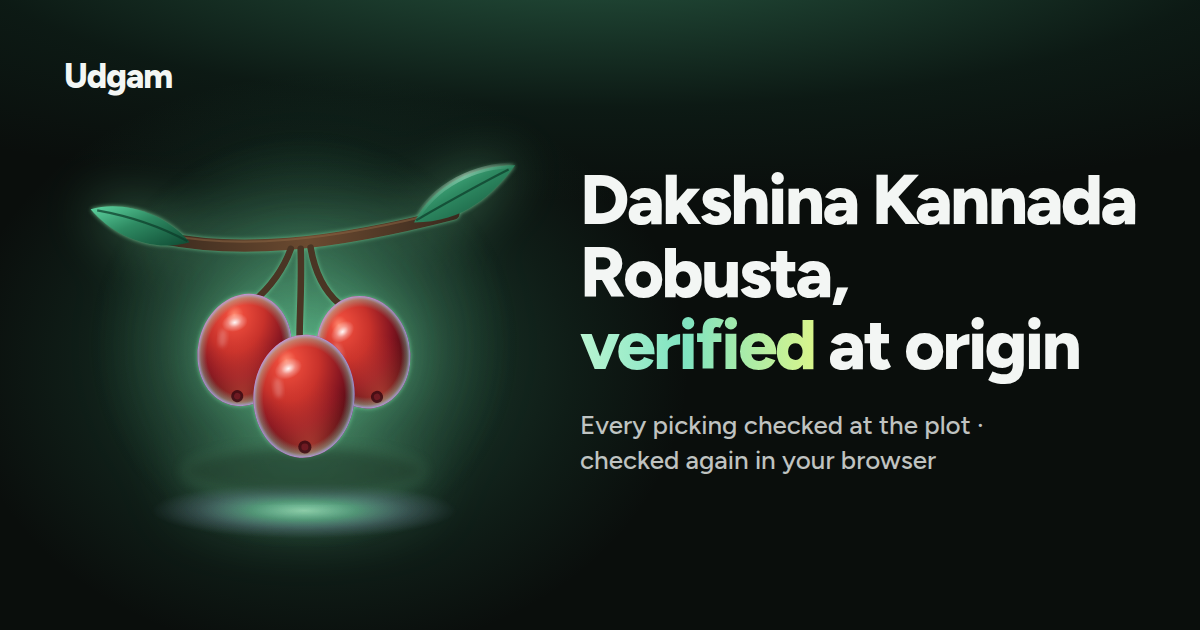
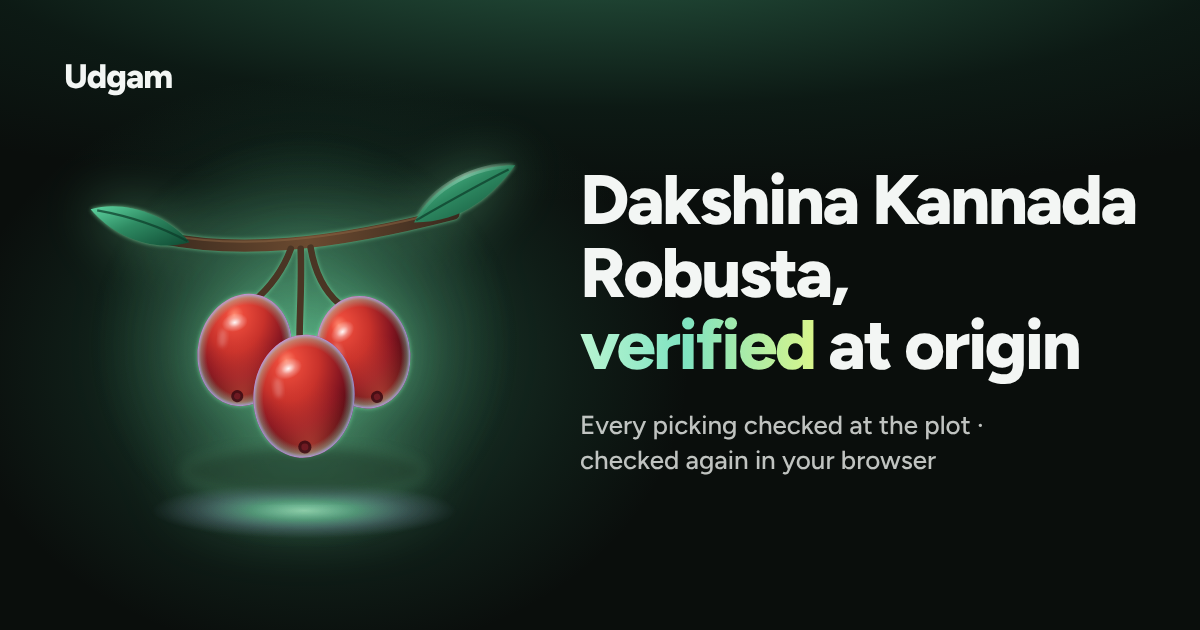
Pin the link-preview glyph rasteriser so every host renders the same OG image (TASK-18)
CI's e2e job failed og-image.spec.ts: verify-kodagu-arabica.png differed from
its re-render by a mean of 2.9007/255. The committed PNGs came from the VM's
full Chrome binary, which takes hinting and subpixel order from the host's
fontconfig (this VM: hintslight + RGB). CI renders with the headless shell,
which uses full hinting. Locally the 1194 headless shell gives exactly
2.9007 against the old PNGs, the same figure CI reported with Chromium 153.

launchOgBrowser now points FONTCONFIG_FILE at scripts/og/fonts.conf
(grayscale antialiasing, no hinting, no LCD order, host files unread) and
passes --font-render-hinting=none, --disable-font-subpixel-positioning and
--disable-lcd-text. The spec renders with that browser instead of the
project fixture. Across both binaries, under the VM's fontconfig, four
scratch system configs and a user ~/.config file, renders are now
byte-identical; before, they were 0.44 to 3.32 apart.

The PNGs are regenerated with pnpm og:render: same layouts, 337-353 KB,
byte-identical on a second run, and closer to the approved verify.png
(mean 0.99, was 1.37). The comparison limits are unchanged.

Claude-Session: https://claude.ai/code/session_01HGo9cNkjpsmZsaQ31tkm9J

diff --git a/e2e/og-image.spec.ts b/e2e/og-image.spec.ts
@@ -3,54 +3,61 @@ import { join } from 'node:path';
 import { expect, test } from '@playwright/test';
 import sharp from 'sharp';
 import { OG_VARIANTS } from '../src/lib/certificate/og-image';
-import { renderOg } from '../scripts/og/render';
+import { launchOgBrowser, renderOg } from '../scripts/og/render';
 
 // DES-202 (EXE43) · TC-072 · @eval EVAL-090: every committed link-preview image under public/og/ is what
 // scripts/og/render.ts makes today from the frozen artwork (.design/exploration/og/index.html) with that
-// variant's words: re-rendered here in Chromium, it is 1200 × 630, under 500 KB, and the same picture. The
-// same Chromium build gives the same bytes; another build may move antialiased edges, so the check allows
-// a mean difference under 1/255 with under 0.5 % of pixels more than 32/255 apart. The headline wraps
-// after the district only when the line is too wide, and steps down from 74 px only when that is not enough.
-// Needs no server; runs once (desktop project).
+// variant's words: re-rendered here in Chromium, it is 1200 × 630, under 500 KB, and the same picture. It
+// renders with the script's own browser (launchOgBrowser), not the project's: that launch pins the glyph
+// rasteriser (scripts/og/fonts.conf, no hinting, grayscale antialiasing), so the host's fontconfig and the
+// Chromium binary (full Chrome here, the headless shell in CI) do not change the pixels. Another Chromium
+// build may still move antialiased edges, so the check allows a mean difference under 1/255 with under
+// 0.5 % of pixels more than 32/255 apart. The headline wraps after the district only when the line is too
+// wide, and steps down from 74 px only when that is not enough. Needs no server; runs once (desktop project).
 
 test.describe('link-preview images match their render (DES-202, @eval EVAL-090)', () => {
   test.skip(({ viewport }) => viewport?.width !== 1440, 'renders once, in the desktop project');
   test.setTimeout(120_000);
 
-  test('every variant re-renders to the committed picture', async ({ browser }) => {
-    const layouts: Record<string, string> = {};
-    for (const v of OG_VARIANTS) {
-      const { png, layout } = await renderOg(browser, v);
-      layouts[v.subject] = `${layout.fontSize}px ${layout.lines.join(' / ')}`;
-      expect(png.length, v.url).toBeLessThan(500 * 1024);
-      const raw = (b: Buffer) => sharp(b).removeAlpha().raw().toBuffer({ resolveWithObject: true });
-      const [fresh, committed] = await Promise.all([raw(png), raw(readFileSync(join('public', v.url)))]);
-      expect(fresh.info, v.url).toMatchObject({ width: 1200, height: 630, channels: 3 });
-      expect(committed.info, v.url).toMatchObject({ width: 1200, height: 630, channels: 3 });
-      let sum = 0;
-      let off = 0;
-      for (let i = 0; i < fresh.data.length; i += 3) {
-        let d = 0;
-        for (let c = 0; c < 3; c++) d = Math.max(d, Math.abs(fresh.data[i + c]! - committed.data[i + c]!));
-        sum += d;
-        if (d > 32) off++;
+  test('every variant re-renders to the committed picture', async () => {
+    const browser = await launchOgBrowser();
+    try {
+      const layouts: Record<string, string> = {};
+      for (const v of OG_VARIANTS) {
+        const { png, layout } = await renderOg(browser, v);
+        layouts[v.subject] = `${layout.fontSize}px ${layout.lines.join(' / ')}`;
+        expect(png.length, v.url).toBeLessThan(500 * 1024);
+        const raw = (b: Buffer) => sharp(b).removeAlpha().raw().toBuffer({ resolveWithObject: true });
+        const [fresh, committed] = await Promise.all([raw(png), raw(readFileSync(join('public', v.url)))]);
+        expect(fresh.info, v.url).toMatchObject({ width: 1200, height: 630, channels: 3 });
+        expect(committed.info, v.url).toMatchObject({ width: 1200, height: 630, channels: 3 });
+        let sum = 0;
+        let off = 0;
+        for (let i = 0; i < fresh.data.length; i += 3) {
+          let d = 0;
+          for (let c = 0; c < 3; c++) d = Math.max(d, Math.abs(fresh.data[i + c]! - committed.data[i + c]!));
+          sum += d;
+          if (d > 32) off++;
+        }
+        const pixels = fresh.data.length / 3;
+        expect(sum / pixels, `${v.url} mean difference`).toBeLessThan(1);
+        expect(off / pixels, `${v.url} pixels far apart`).toBeLessThan(0.005);
       }
-      const pixels = fresh.data.length / 3;
-      expect(sum / pixels, `${v.url} mean difference`).toBeLessThan(1);
-      expect(off / pixels, `${v.url} pixels far apart`).toBeLessThan(0.005);
+      expect(layouts).toEqual({
+        'Kodagu Arabica': '74px Kodagu Arabica, / verified at origin',
+        'Kodagu Robusta': '74px Kodagu Robusta, / verified at origin',
+        'Chikkamagaluru Arabica': '74px Chikkamagaluru / Arabica, / verified at origin',
+        'Chikkamagaluru Robusta': '74px Chikkamagaluru / Robusta, / verified at origin',
+        'Hassan Arabica': '74px Hassan Arabica, / verified at origin',
+        'Hassan Robusta': '74px Hassan Robusta, / verified at origin',
+        'Dakshina Kannada Arabica': '70px Dakshina Kannada / Arabica, / verified at origin',
+        'Dakshina Kannada Robusta': '70px Dakshina Kannada / Robusta, / verified at origin',
+        'Karnataka Arabica': '74px Karnataka / Arabica, / verified at origin',
+        'Karnataka Robusta': '74px Karnataka / Robusta, / verified at origin',
+        Coffee: '74px Coffee, / verified at origin',
+      });
+    } finally {
+      await browser.close();
     }
-    expect(layouts).toEqual({
-      'Kodagu Arabica': '74px Kodagu Arabica, / verified at origin',
-      'Kodagu Robusta': '74px Kodagu Robusta, / verified at origin',
-      'Chikkamagaluru Arabica': '74px Chikkamagaluru / Arabica, / verified at origin',
-      'Chikkamagaluru Robusta': '74px Chikkamagaluru / Robusta, / verified at origin',
-      'Hassan Arabica': '74px Hassan Arabica, / verified at origin',
-      'Hassan Robusta': '74px Hassan Robusta, / verified at origin',
-      'Dakshina Kannada Arabica': '70px Dakshina Kannada / Arabica, / verified at origin',
-      'Dakshina Kannada Robusta': '70px Dakshina Kannada / Robusta, / verified at origin',
-      'Karnataka Arabica': '74px Karnataka / Arabica, / verified at origin',
-      'Karnataka Robusta': '74px Karnataka / Robusta, / verified at origin',
-      Coffee: '74px Coffee, / verified at origin',
-    });
   });
 });

diff --git a/scripts/og/render.ts b/scripts/og/render.ts
@@ -8,6 +8,12 @@
 // origin"). When the first line is wider than the copy column it splits after the district (three lines),
 // and only when a line still does not fit does the whole headline step down 1 px at a time until it does.
 //
+// Same pixels on every host: the glyph rasteriser is pinned, not left to the machine (launchOgBrowser). Linux
+// Chromium takes hinting, antialiasing and subpixel order from fontconfig, so the full Chrome binary on a VM
+// whose /etc/fonts says hintslight + RGB and the headless shell on a GitHub runner drew different glyph edges
+// from the same page (mean 2.9/255). The launch points fontconfig at scripts/og/fonts.conf (grayscale, no
+// hinting, no LCD order, host files unread) and passes the matching Chromium switches.
+//
 // Run and commit the output: `pnpm og:render`. e2e/og-image.spec.ts re-renders every variant and compares.
 import { existsSync, mkdirSync, readFileSync, writeFileSync } from 'node:fs';
 import { dirname, join, resolve } from 'node:path';
@@ -99,9 +105,20 @@ export async function renderOg(browser: Browser, v: OgVariant): Promise<{ png: B
   }
 }
 
+/** The fontconfig file the render's Chromium reads instead of the host's (see its comment). */
+export const OG_FONTCONFIG = join(ROOT, 'scripts/og/fonts.conf');
+/**
+ * Chromium switches that fix the rasteriser where fontconfig does not reach: the headless shell takes its
+ * hinting from --font-render-hinting (default "full"), not from fontconfig. Both binaries then agree.
+ */
+export const OG_CHROMIUM_ARGS: readonly string[] = ['--font-render-hinting=none', '--disable-font-subpixel-positioning', '--disable-lcd-text'];
+
+/** The only browser the images are rendered or checked with: the script and e2e/og-image.spec.ts both use it. */
 export async function launchOgBrowser(): Promise<Browser> {
   const executablePath = chromiumPath();
-  return chromium.launch(executablePath ? { executablePath } : {});
+  const env: Record<string, string | undefined> = { ...process.env, FONTCONFIG_FILE: OG_FONTCONFIG };
+  delete env.FONTCONFIG_SYSROOT; // would re-root the absolute paths above
+  return chromium.launch({ ...(executablePath ? { executablePath } : {}), args: [...OG_CHROMIUM_ARGS], env });
 }
 
 async function main(): Promise<void> {
